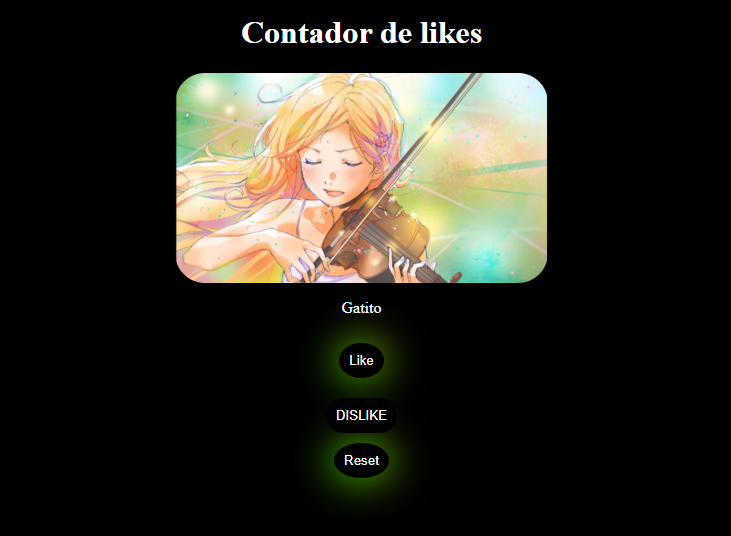
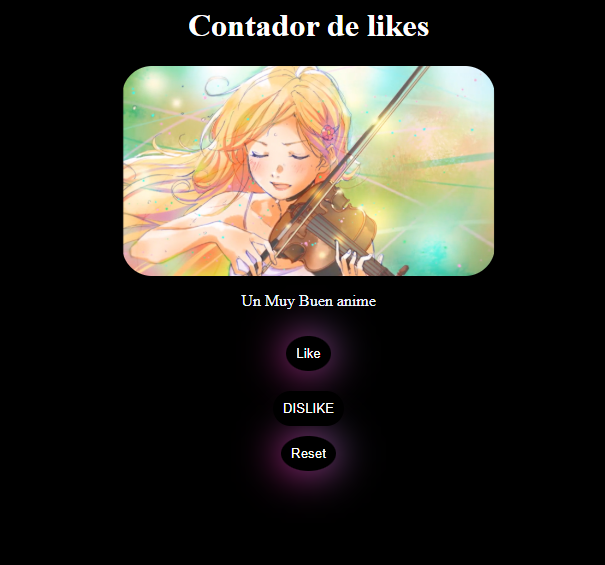
sobre mi agregado

Changed region(s): [[0.1785, 0.0299, 0.8331, 0.9552]]

diff --git a/Home/HomePage.html b/Home/HomePage.html
@@ -20,7 +20,7 @@
         <div class="content">
             <!--botones-->
             <div class="botones">
-                <a href="/Home/PortfolioPage/PortfolioPage.html"><button>Portafolio</button></a>
+                <a href="/Home/PresentacionPage/PrecentacionPage.html"><button>Sobre Mi</button></a>
                 <a href="/Home/SocialPage/SocialPage.html"><button>Redes sociales</button></a>
                 <a href="/Home/GamePage/GamePage.html"><button>juegos</button></a>
                 <a href="/Home/ProxProyectsPage/ProxProyectsPage.html"><button>Proximos proyectos</button></a>
@@ -82,8 +82,8 @@
                             <img  class="photo" src="/images/PhotoNexTech.png" alt="prueva">
                         </div>
                         <div class="c-txt">
-                            <p>galeria de videos:</p>
-                            <p>nesesitaba aprender a inplementar videeos , por ello fue creada esta.</p>
+                            <p>nextech:</p>
+                            <p>un proyecto grupal en el que creamos una empresa de ventos tecnologicos.</p>
                         </div>
                     </div>
                 </a>
@@ -94,8 +94,8 @@
                             <img  class="photo" src="/images/PhotoGaleria.png" alt="prueva">
                         </div>
                         <div class="c-txt">
-                            <p>galeria de videos:</p>
-                            <p>nesesitaba aprender a inplementar videeos , por ello fue creada esta.</p>
+                            <p>galeria de imagenes:</p>
+                            <p>probando algunos efectos sobre imagenes.</p>
                         </div>
                     </div>
                 </a>

diff --git a/Home/PresentacionPage/PrecentacionPage.html b/Home/PresentacionPage/PrecentacionPage.html
@@ -4,8 +4,8 @@
     <meta charset="UTF-8">
     <meta name="viewport" content="width=device-width, initial-scale=1.0">
     <link class="icono" rel="icon" href="/images/icon.png" type="image/x-icon"> 
-    <link href="PortfolioPage.css" rel="stylesheet">
-    <title>Portfolio Page</title>
+    <link href="presentacionPage.css" rel="stylesheet">
+    <title>Sobre mi - Page</title>
 </head>
 <body>
     <div class="overlay">
@@ -13,7 +13,7 @@
         <header class="menu">
             <div class="contenedor">
                 <div class="palabra ami">
-                    <h1>Portafolio</h1>
+                    <h1>Sobre mi</h1>
                 </div>
             </div>
         </header>
@@ -25,7 +25,11 @@
                 <a href="/Home/GamePage/GamePage.html"><button>juegos</button></a>
                 <a href="/Home/ProxProyectsPage/ProxProyectsPage.html"><button>Proximos proyectos</button></a>
             </div>
-            <!--cartas-->
+            <!--Contenido-->
+            <div class="yo">
+                <h2>Un poco sobre mi:</h2>
+                <p>Hola mi nombre es Jose Maldonado , estudio FronEnd en factoria F5 y backEnd en mis ratos libres , me apaciona la programcion , quiero llegar a crear un juego propio! , me gutan los mangas , los animes y los juegos!</p>
+            </div>
         </div>
     </div>
 </body>

diff --git a/Home/GamePage/GamePage.html b/Home/GamePage/GamePage.html
@@ -21,7 +21,7 @@
             <!--botones-->
             <div class="botones">
                 <a href="/Home/HomePage.html"><button>Home</button></a>
-                <a href="/Home/PortfolioPage/PortfolioPage.html"><button>Portafolio</button></a>
+                <a href="/Home/PresentacionPage/PrecentacionPage.html"><button>Sobre Mi</button></a>
                 <a href="/Home/SocialPage/SocialPage.html"><button>Redes sociales</button></a>
                 <a href="/Home/ProxProyectsPage/ProxProyectsPage.html"><button>Proximos proyectos</button></a>
             </div>

diff --git a/Home/SocialPage/SocialPage.html b/Home/SocialPage/SocialPage.html
@@ -21,7 +21,7 @@
             <!--botones-->
             <div class="botones">
                 <a href="/Home/HomePage.html"><button>Home</button></a>
-                <a href="/Home/PortfolioPage/PortfolioPage.html"><button>Portafolio</button></a>
+                <a href="/Home/PresentacionPage/PrecentacionPage.html"><button>Sobre Mi</button></a>
                 <a href="/Home/GamePage/GamePage.html"><button>juegos</button></a>
                 <a href="/Home/ProxProyectsPage/ProxProyectsPage.html"><button>Proximos proyectos</button></a>
             </div>

diff --git a/Home/ProxProyectsPage/ProxProyectsPage.html b/Home/ProxProyectsPage/ProxProyectsPage.html
@@ -21,7 +21,7 @@
             <!--botones-->
             <div class="botones">
                 <a href="/Home/HomePage.html"><button>Home</button></a>
-                <a href="/Home/PortfolioPage/PortfolioPage.html"><button>Portafolio</button></a>
+                <a href="/Home/PresentacionPage/PrecentacionPage.html"><button>Sobre Mi</button></a>
                 <a href="/Home/SocialPage/SocialPage.html"><button>Redes sociales</button></a>
                 <a href="/Home/GamePage/GamePage.html"><button>juegos</button></a>
             </div>

diff --git a/Home/Contador_boton_magico/contador.html b/Home/Contador_boton_magico/contador.html
@@ -11,7 +11,7 @@
     <h1>Contador de likes</h1>
     <div>
         <img src="/images/contador.png" alt="mianimefav">
-        <p id="contador">Gatito</p>
+        <p id="contador">Un Muy Buen anime</p>
         <button class="boton" onclick="Sumar()">Like</button>
         <button class="boton_hover" onclick="Restar()">dislike</button>
         <button class="boton" onclick="Reset()">Reset</button>
